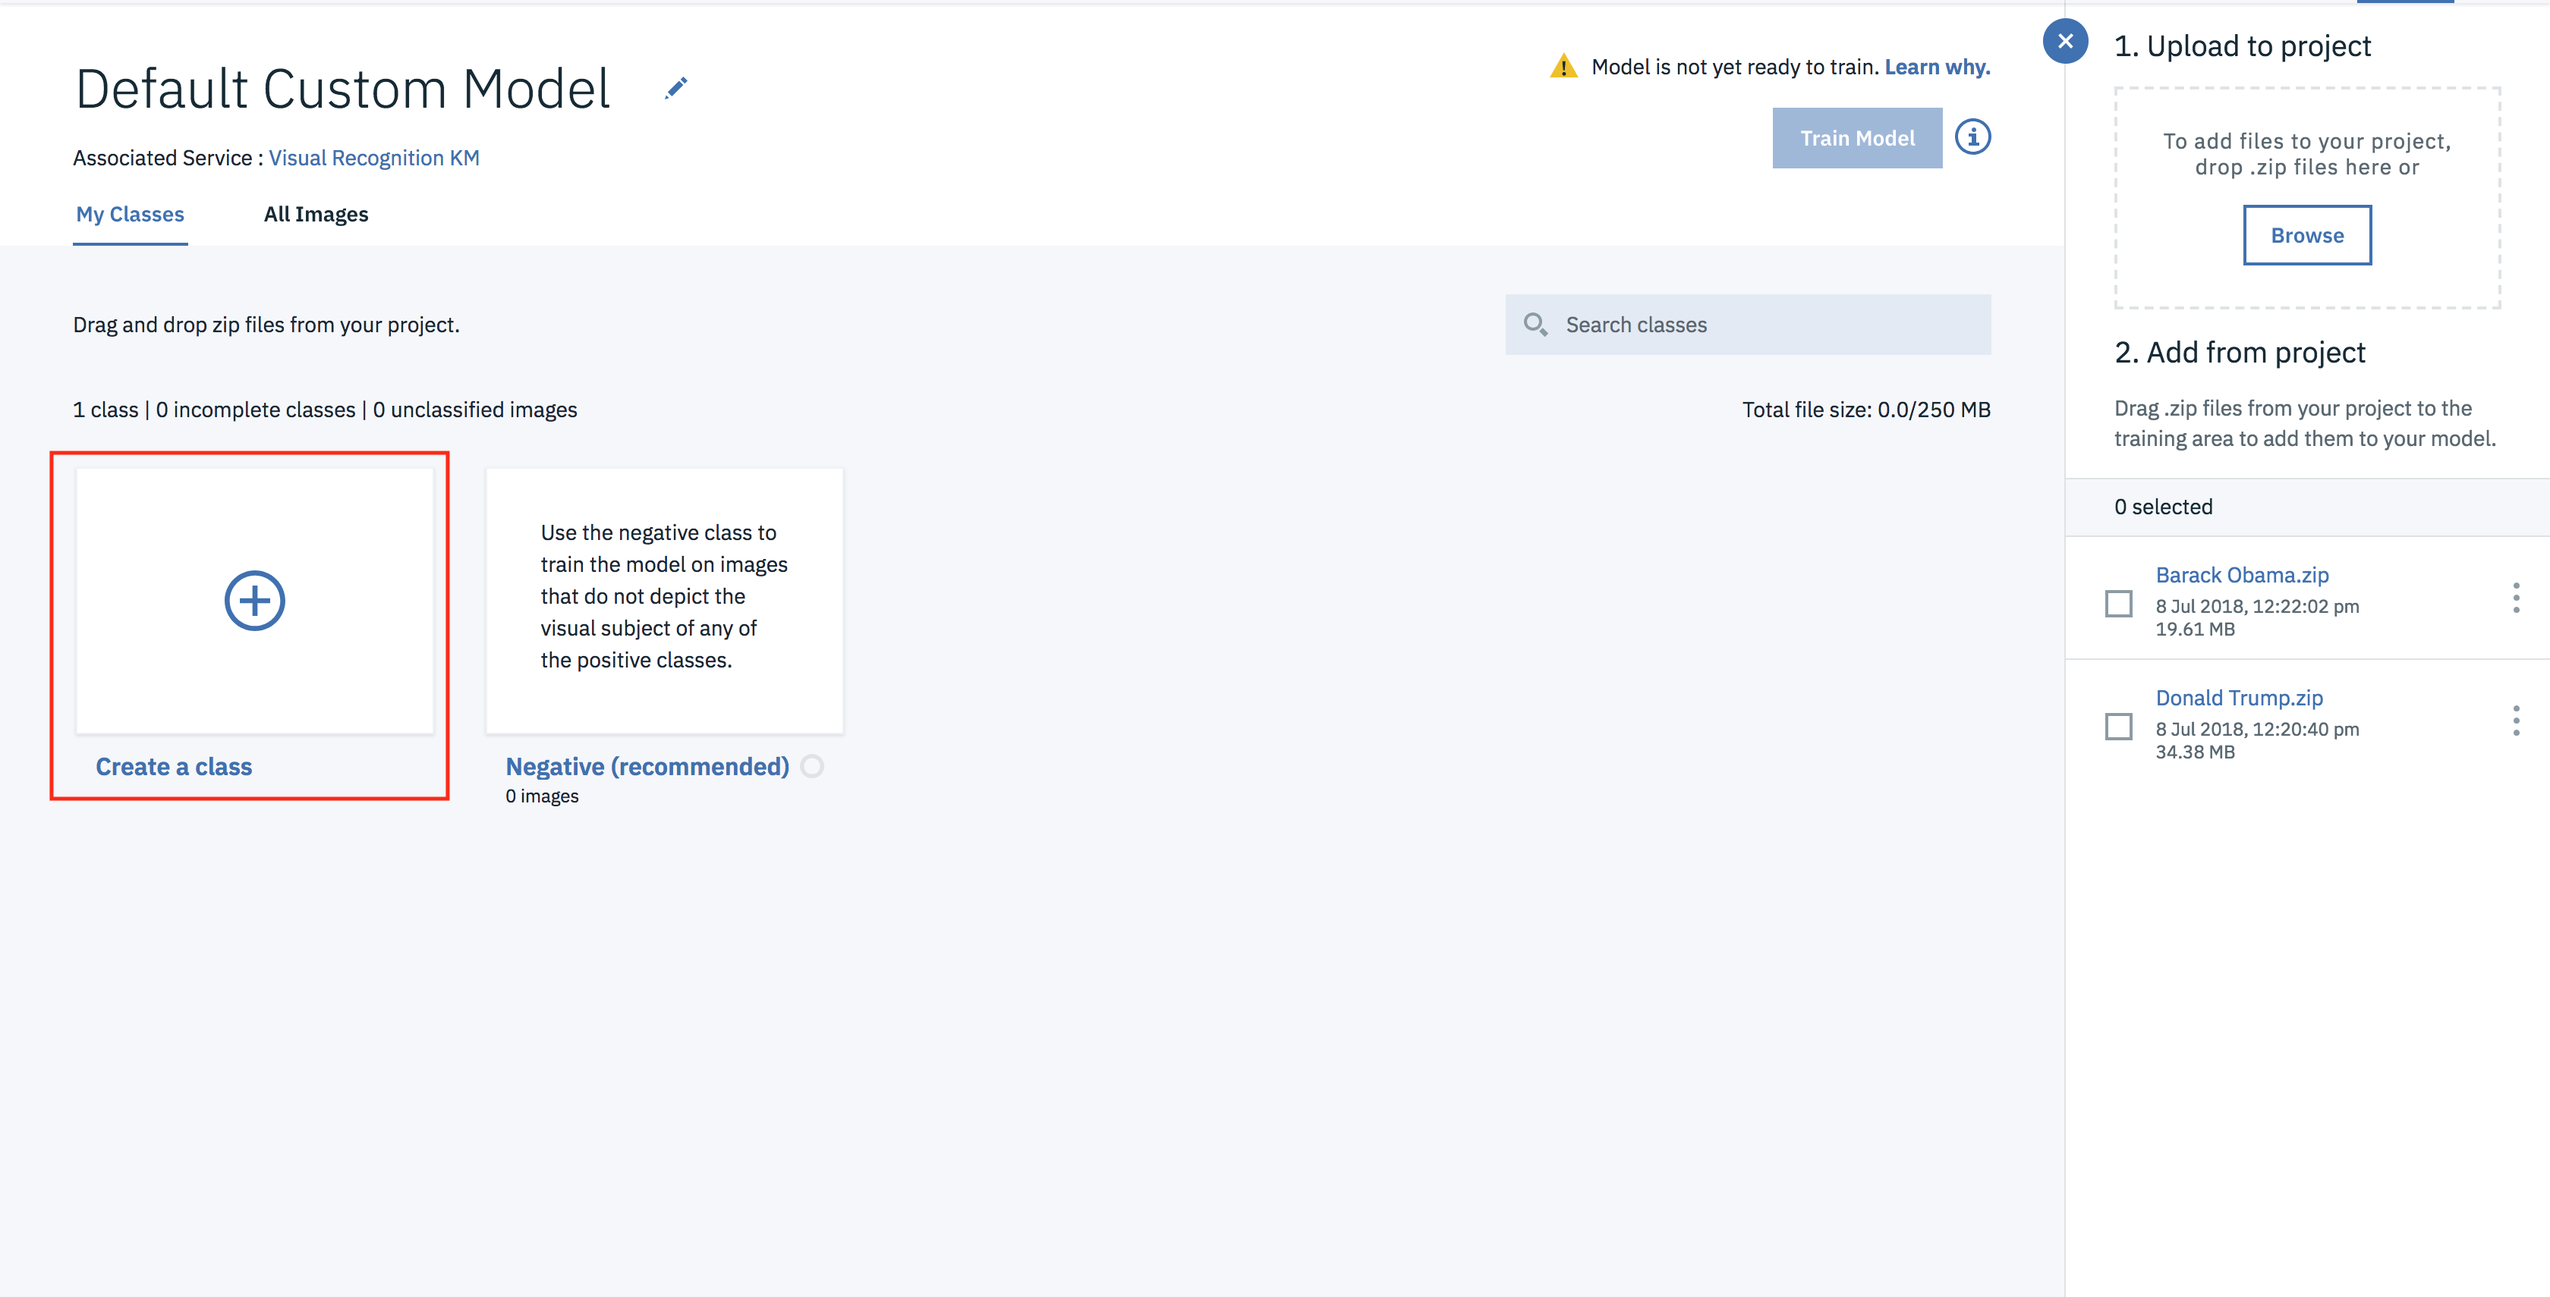
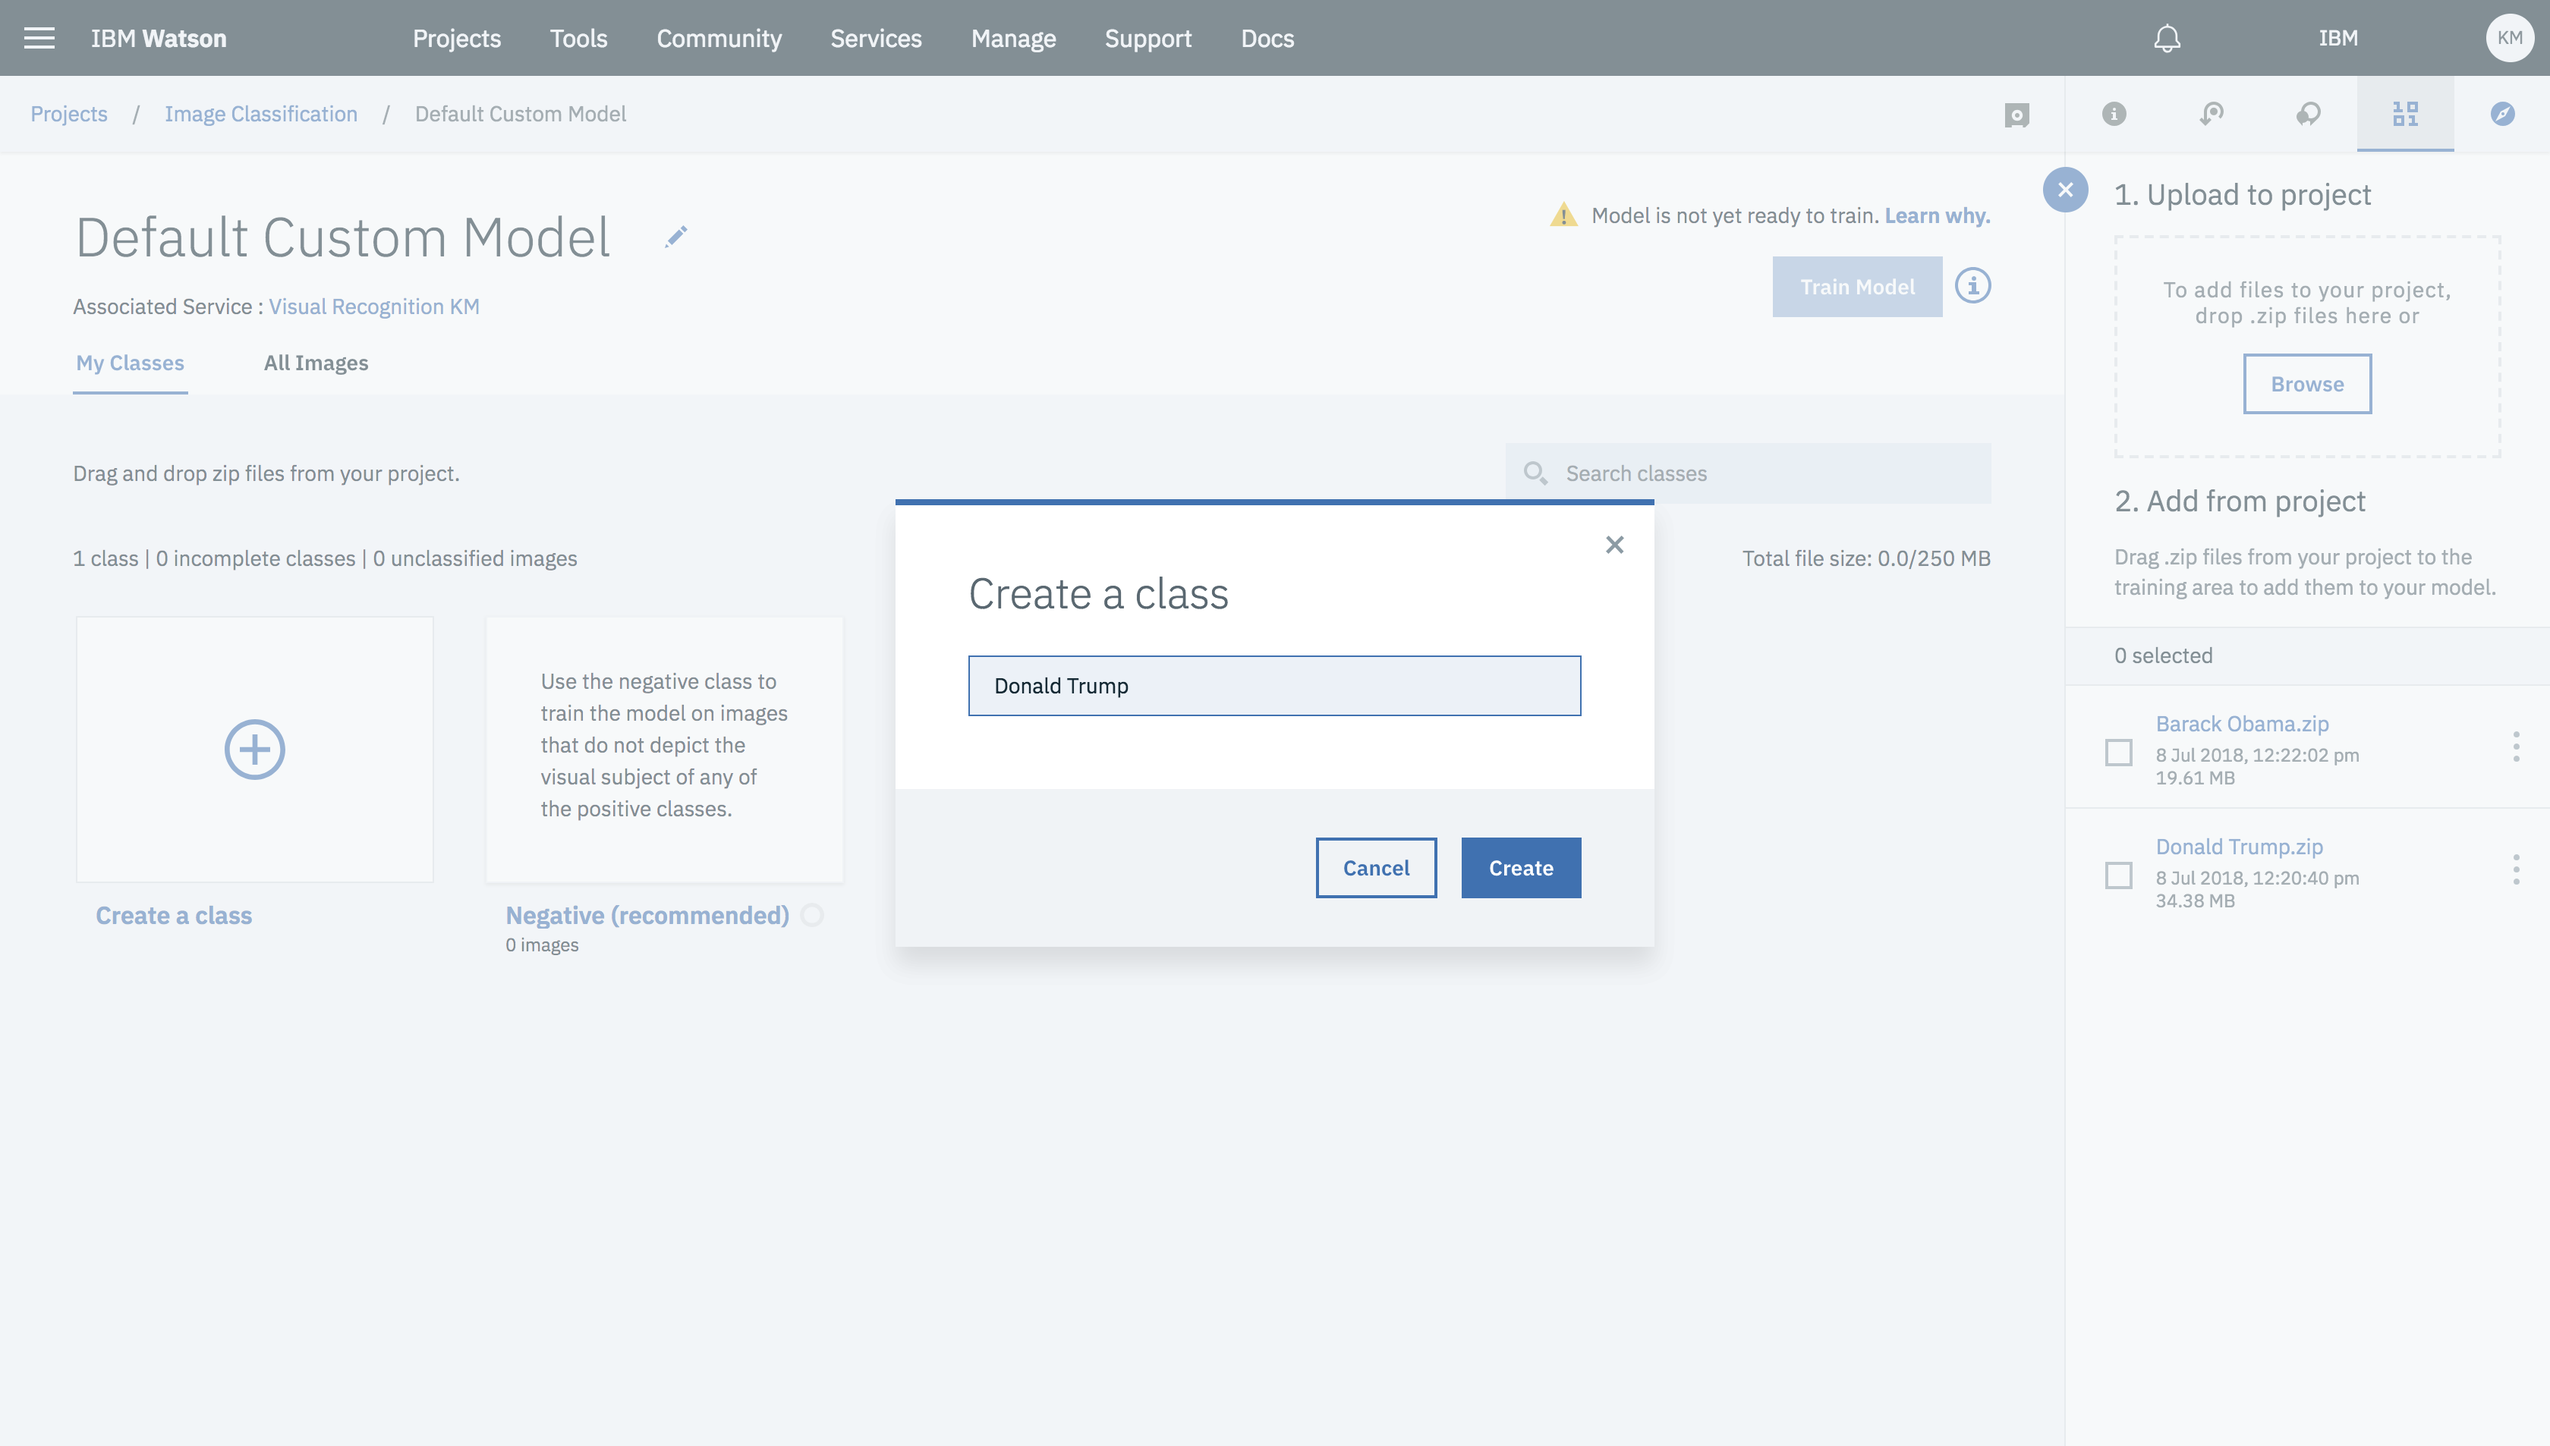
Changes made

diff --git a/README.md b/README.md
@@ -80,9 +80,11 @@ Watson Studio is a cloud based development and deployment environment for Machin
 ![](assets/image7.png)
 
 * New dashboard will open with model names as **Default Custom Model** (we can edit it). Dashboard will show two tabs **My Classes** and **All Images**.
-* In the **My Classes** click on **Create a class**.
+* In the **My Classes** tab click on **Create a class** and create a class you want to classify. (Note:- class of an image, it relates to the object classification task. If you have to define coordinates of an object on the image, then it is the object detection task).
 
 ![](assets/image8.png)
+
+
 
 
 
